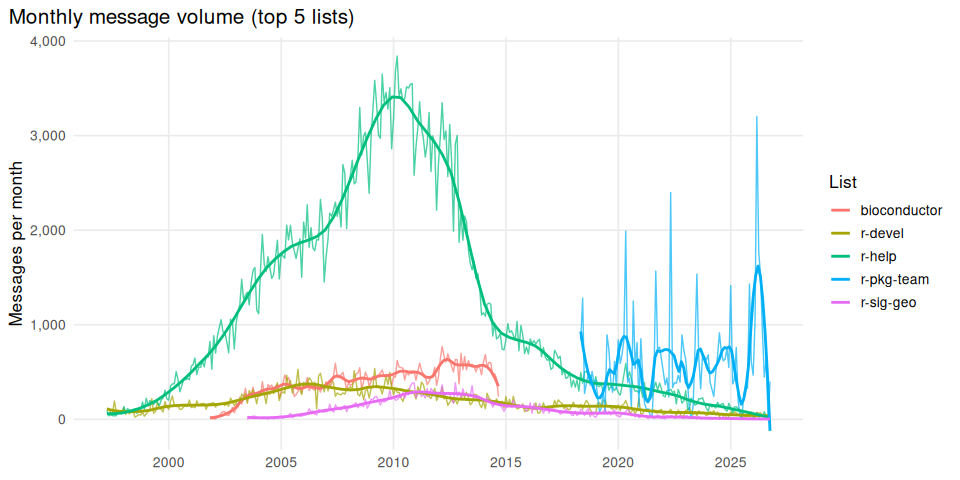
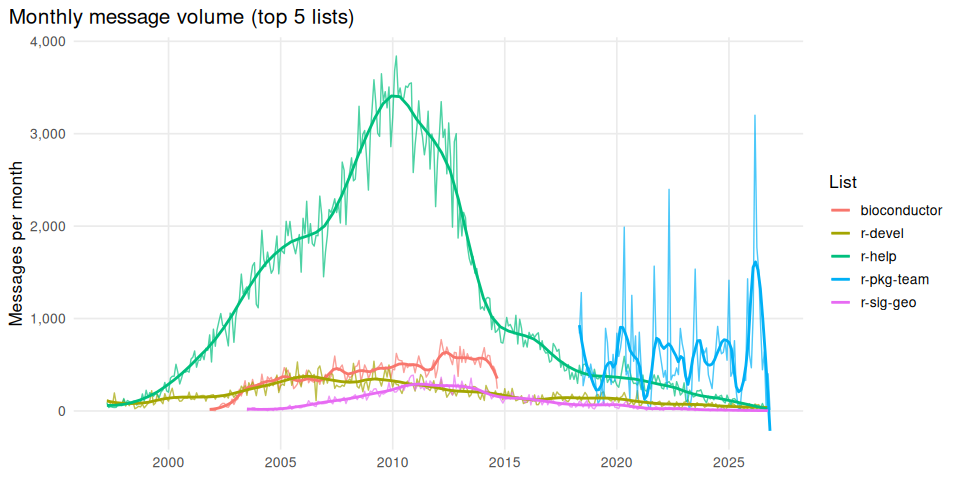
docs: refresh README and analysis 2026-11-01

diff --git a/analysis/demo-analysis.md b/analysis/demo-analysis.md
@@ -175,35 +175,35 @@ rml_available()
     [225] "rserlang-develop"           "rsiena-help"               
     [227] "rsnns"                      "rspatial-devel"            
     [229] "rugbcn"                     "rworldmap"                 
-    [231] "sciviews-help"              "sciviews-news"             
-    [233] "secrgroup"                  "seewave"                   
-    [235] "segoptim-user-group"        "seqinr-forum"              
-    [237] "sequenza-user-group"        "sevillarusers"             
-    [239] "shiny-discuss"              "shinyapps-users"           
-    [241] "siamcat-users"              "simmer-devel"              
-    [243] "simplephenotypes"           "simsalabim-communicate"    
-    [245] "sorvi-admin"                "spades-users"              
-    [247] "sparkr-dev"                 "spdep-devel"               
-    [249] "spocc-spabund-users"        "sprint-developer"          
-    [251] "sprint-user"                "sqldf"                     
-    [253] "stan-announce"              "stan-dev"                  
-    [255] "stan-users"                 "statet"                    
-    [257] "statforling-with-r"         "statistics-and-r-community"
-    [259] "statnet-help"               "stats-rosuda-devel"        
-    [261] "stitch-imputation"          "subread"                   
-    [263] "synbreed-news"              "taiwanruser"               
-    [265] "tessera-users"              "tidylpa"                   
-    [267] "tikzdevice-bugs"            "tinn-r"                    
-    [269] "titancna"                   "tlocoh-info"               
-    [271] "tmb-users"                  "traminer-users"            
-    [273] "travelr-announce"           "travelr-discussion"        
-    [275] "trophicposition-support"    "tropical-r"                
-    [277] "tsdyn"                      "uhcluster-members"         
-    [279] "unmarked"                   "viennar-meetup"            
-    [281] "vim-r-plugin"               "wallaceecomod"             
-    [283] "whatif"                     "workflowr-announce"        
-    [285] "yuima-wishlist"             "zelig"                     
-    [287] "zipfr-users"               
+    [231] "s-news"                     "sciviews-help"             
+    [233] "sciviews-news"              "secrgroup"                 
+    [235] "seewave"                    "segoptim-user-group"       
+    [237] "seqinr-forum"               "sequenza-user-group"       
+    [239] "sevillarusers"              "shiny-discuss"             
+    [241] "shinyapps-users"            "siamcat-users"             
+    [243] "simmer-devel"               "simplephenotypes"          
+    [245] "simsalabim-communicate"     "sorvi-admin"               
+    [247] "spades-users"               "sparkr-dev"                
+    [249] "spdep-devel"                "spocc-spabund-users"       
+    [251] "sprint-developer"           "sprint-user"               
+    [253] "sqldf"                      "stan-announce"             
+    [255] "stan-dev"                   "stan-users"                
+    [257] "statet"                     "statforling-with-r"        
+    [259] "statistics-and-r-community" "statnet-help"              
+    [261] "stats-rosuda-devel"         "stitch-imputation"         
+    [263] "subread"                    "synbreed-news"             
+    [265] "taiwanruser"                "tessera-users"             
+    [267] "tidylpa"                    "tikzdevice-bugs"           
+    [269] "tinn-r"                     "titancna"                  
+    [271] "tlocoh-info"                "tmb-users"                 
+    [273] "traminer-users"             "travelr-announce"          
+    [275] "travelr-discussion"         "trophicposition-support"   
+    [277] "tropical-r"                 "tsdyn"                     
+    [279] "uhcluster-members"          "unmarked"                  
+    [281] "viennar-meetup"             "vim-r-plugin"              
+    [283] "wallaceecomod"              "whatif"                    
+    [285] "workflowr-announce"         "yuima-wishlist"            
+    [287] "zelig"                      "zipfr-users"               
 
 ``` r
 # Read a single list (use col_select to skip the body — much faster)
@@ -213,7 +213,7 @@ r_devel <- rml_read("r-devel",
 str(r_devel)
 ```
 
-    Classes 'tbl' and 'data.frame': 63743 obs. of  5 variables:
+    Classes 'tbl' and 'data.frame': 63744 obs. of  5 variables:
      $ from_name: chr  "Martin Maechler" "Kurt Hornik" "Martin Maechler" "Martin Maechler" ...
      $ date     : POSIXct, format: "1997-04-01 08:28:56" "1997-04-01 08:35:43" ...
      $ subject  : chr  "R-alpha: Re: R-Prerelease  ---- Mailing list  \"R-devel\"" "R-alpha: Re: R-Prerelease  ---- Mailing list  \"R-devel\"" "R-alpha: Re: Pretest Version + Notes --- write.table" "R-alpha: R0.50-pre6:  \"stack imbalance in ...\" //  is.vector(matrix...)" ...
@@ -245,12 +245,12 @@ head(contribs)
     # A data frame: 6 × 7
       name     message_count list_count lists list_counts first_message last_message
     * <chr>            <int>      <int> <chr> <chr>       <chr>         <chr>       
-    1 Debian …         30667          1 r-pk… r-pkg-team… 2018-05-04T0… 2026-10-30T…
-    2 Debian …         23220          1 r-pk… r-pkg-team… 2018-05-06T0… 2026-10-31T…
-    3 Brian R…         17998         16 r-he… r-help:117… 1998-06-04T1… 2026-10-27T…
-    4 Duncan …         12607         16 r-he… r-help:733… 2000-02-16T2… 2026-10-26T…
+    1 Debian …         30669          1 r-pk… r-pkg-team… 2018-05-04T0… 2026-11-01T…
+    2 Debian …         23230          1 r-pk… r-pkg-team… 2018-05-06T0… 2026-11-01T…
+    3 Brian R…         19224         17 r-he… r-help:117… 1998-02-09T2… 2026-10-27T…
+    4 Duncan …         12622         17 r-he… r-help:733… 1998-02-19T1… 2026-10-26T…
     5 David W…         11781         19 r-he… r-help:110… 2003-03-07T1… 2026-08-23T…
-    6 Peter D…         10837         12 r-he… r-help:707… 1997-04-01T0… 2026-10-29T…
+    6 Peter D…         10838         13 r-he… r-help:707… 1997-04-01T0… 2026-10-29T…
 
 ### Working directly with Parquet files
 
@@ -331,14 +331,14 @@ recent <- r_devel[r_devel$date >= as.POSIXct(Sys.Date() - 365), ]
 head(sort(table(recent$from_name), decreasing = TRUE), 10)
 ```
 
-                       Martin Maechler                        Ivan Krylov 
-                                    38                                 37 
+                           Ivan Krylov                    Martin Maechler 
+                                    37                                 37 
                      Dirk Eddelbuettel iuke-tier@ey m@iii@g oii uiow@@edu 
-                                    32                                 23 
+                                    29                                 24 
                         Duncan Murdoch                        Kurt Hornik 
                                     22                                 22 
                          Simon Urbanek                     Peter Dalgaard 
-                                    20                                 19 
+                                    20                                 17 
                             Ben Bolker    Suharto Anggono Suharto Anggono 
                                     16                                 16 
 
@@ -424,22 +424,22 @@ contribs |>
 
 | name                 | message_count | list_count |
 |:---------------------|--------------:|-----------:|
-| Debian FTP Masters   |         30667 |          1 |
-| Debian testing watch |         23220 |          1 |
-| Brian Ripley         |         17998 |         16 |
-| Duncan Murdoch       |         12607 |         16 |
+| Debian FTP Masters   |         30669 |          1 |
+| Debian testing watch |         23230 |          1 |
+| Brian Ripley         |         19224 |         17 |
+| Duncan Murdoch       |         12622 |         17 |
 | David Winsemius      |         11781 |         19 |
-| Peter Dalgaard       |         10837 |         12 |
+| Peter Dalgaard       |         10838 |         13 |
 | Bob Carpenter        |         10399 |          4 |
 | Gabor Grothendieck   |         10252 |         28 |
 | Uwe Ligges           |          8677 |         22 |
 | Dirk Eddelbuettel    |          8531 |         28 |
 | Ben Bolker           |          6552 |         18 |
-| Bert Gunter          |          6050 |         10 |
-| Martin Maechler      |          5911 |         29 |
+| Bert Gunter          |          6051 |         11 |
+| Martin Maechler      |          5944 |         30 |
 | Simon Urbanek        |          4955 |         18 |
 | Roger Bivand         |          4792 |         20 |
-| Hadley Wickham       |          4635 |         27 |
+| Hadley Wickham       |          4636 |         28 |
 | Ben Goodrich         |          4474 |          7 |
 | jim holtman          |          4469 |          8 |
 | Jeff Newmiller       |          4427 |         10 |

diff --git a/README.md b/README.md
@@ -119,16 +119,17 @@ contributors), see the [demo analysis](analysis/demo-analysis.md).
 
 ## Data overview
 
-**1,079,815** messages across **287** mailing lists
+**1,103,649** messages across **288** mailing lists
 
 | List                       | Messages | Authors | First Message | Last Message |
 |:---------------------------|:---------|:--------|:--------------|:-------------|
-| r-help                     | 398,804  | 36,566  | Apr 1997      | Oct 2026     |
-| r-devel                    | 63,743   | 5,577   | Apr 1997      | Oct 2026     |
+| r-help                     | 398,804  | 36,565  | Apr 1997      | Oct 2026     |
+| r-devel                    | 63,744   | 5,577   | Apr 1997      | Oct 2026     |
 | bioconductor               | 61,316   | 7,259   | Nov 2001      | Sep 2014     |
-| r-pkg-team                 | 60,320   | 631     | May 2018      | Oct 2026     |
+| r-pkg-team                 | 60,334   | 631     | May 2018      | Nov 2026     |
 | r-sig-geo                  | 29,588   | 3,456   | Jul 2003      | Oct 2026     |
 | stan-users                 | 26,736   | 1,416   | Aug 2012      | Jun 2017     |
+| s-news                     | 23,817   | 4,035   | Feb 1998      | Dec 2010     |
 | lavaan                     | 23,446   | 3,177   | Sep 2012      | Oct 2026     |
 | shiny-discuss              | 23,336   | 3,762   | Nov 2012      | Jan 2024     |
 | bioc-devel                 | 21,557   | 1,700   | Mar 2004      | Oct 2026     |
@@ -143,9 +144,9 @@ contributors), see the [demo analysis](analysis/demo-analysis.md).
 | r-package-devel            | 12,406   | 1,129   | May 2015      | Oct 2026     |
 | rcpp-devel                 | 11,011   | 794     | Nov 2009      | May 2026     |
 | unmarked                   | 7,731    | 1,059   | Feb 2010      | Oct 2026     |
-| r-sig-ecology              | 7,618    | 1,318   | Apr 2008      | Oct 2026     |
+| r-sig-ecology              | 7,619    | 1,318   | Apr 2008      | Oct 2026     |
 | distance-sampling          | 6,855    | 1,278   | Sep 1998      | Oct 2026     |
-| r-sig-phylo                | 6,509    | 1,035   | Feb 2008      | Oct 2026     |
+| r-sig-phylo                | 6,510    | 1,035   | Feb 2008      | Oct 2026     |
 | shinyapps-users            | 6,426    | 1,537   | Nov 2013      | Sep 2018     |
 | rkward-devel               | 6,143    | 418     | Nov 2002      | Sep 2025     |
 | nimble-users               | 5,839    | 588     | Jul 2014      | Oct 2026     |
